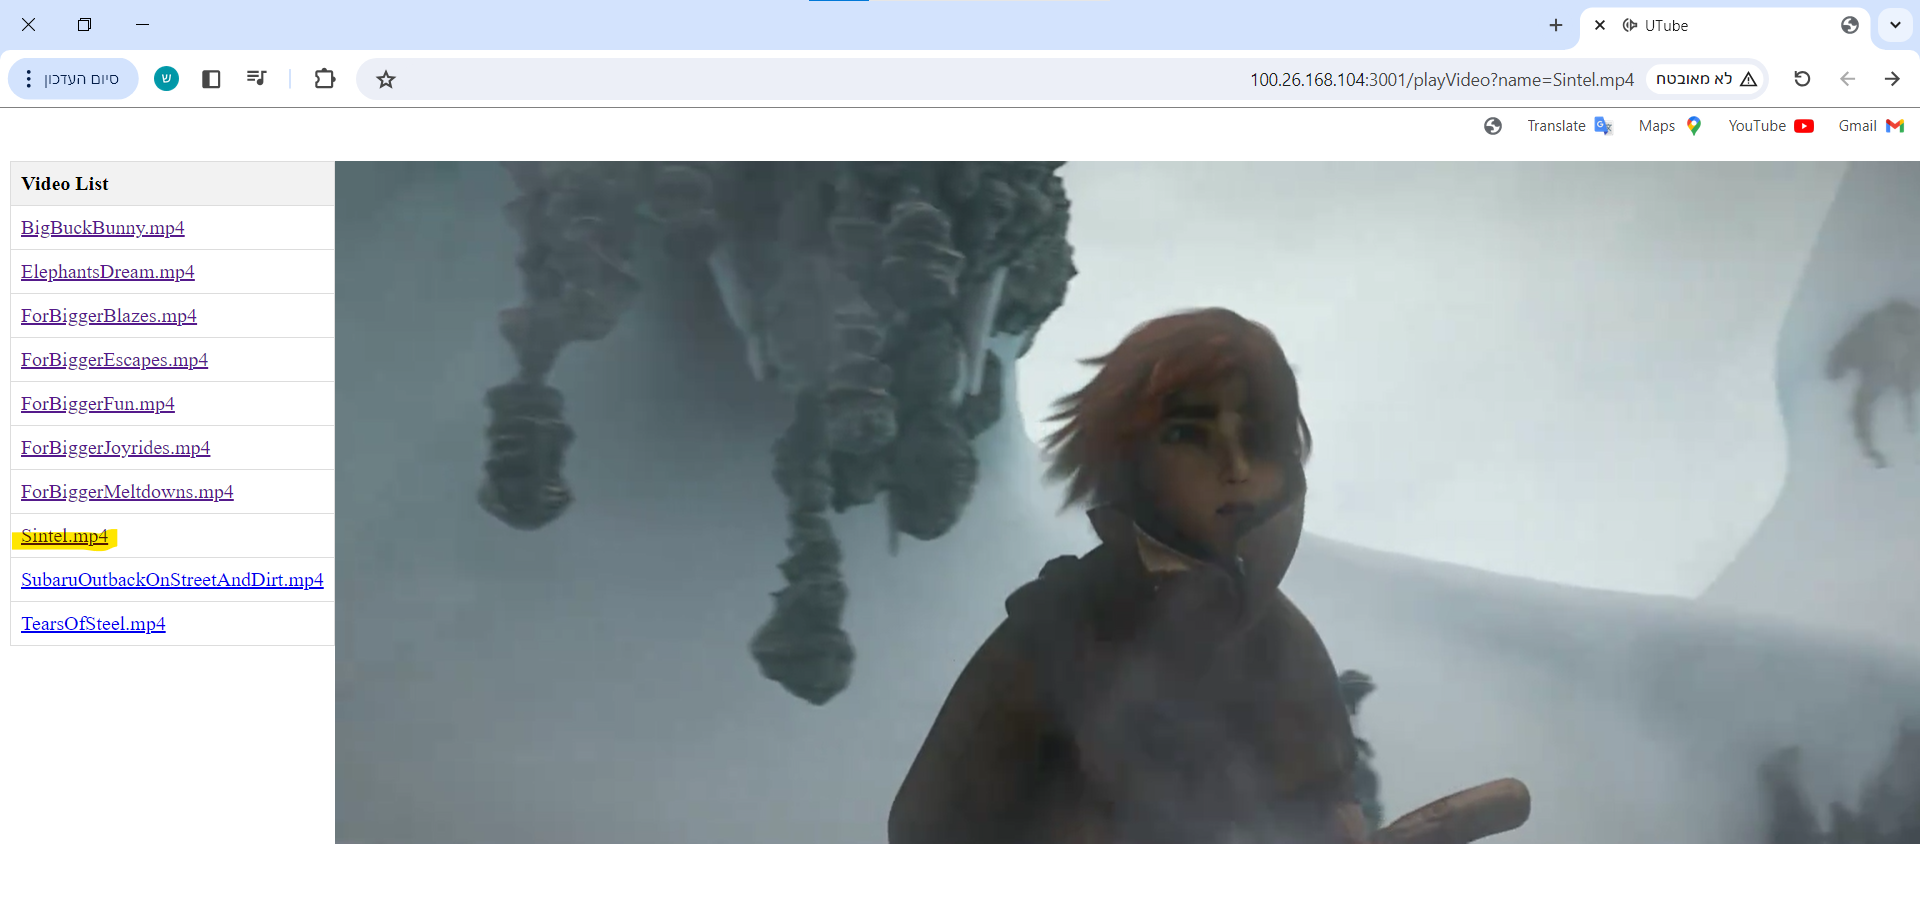
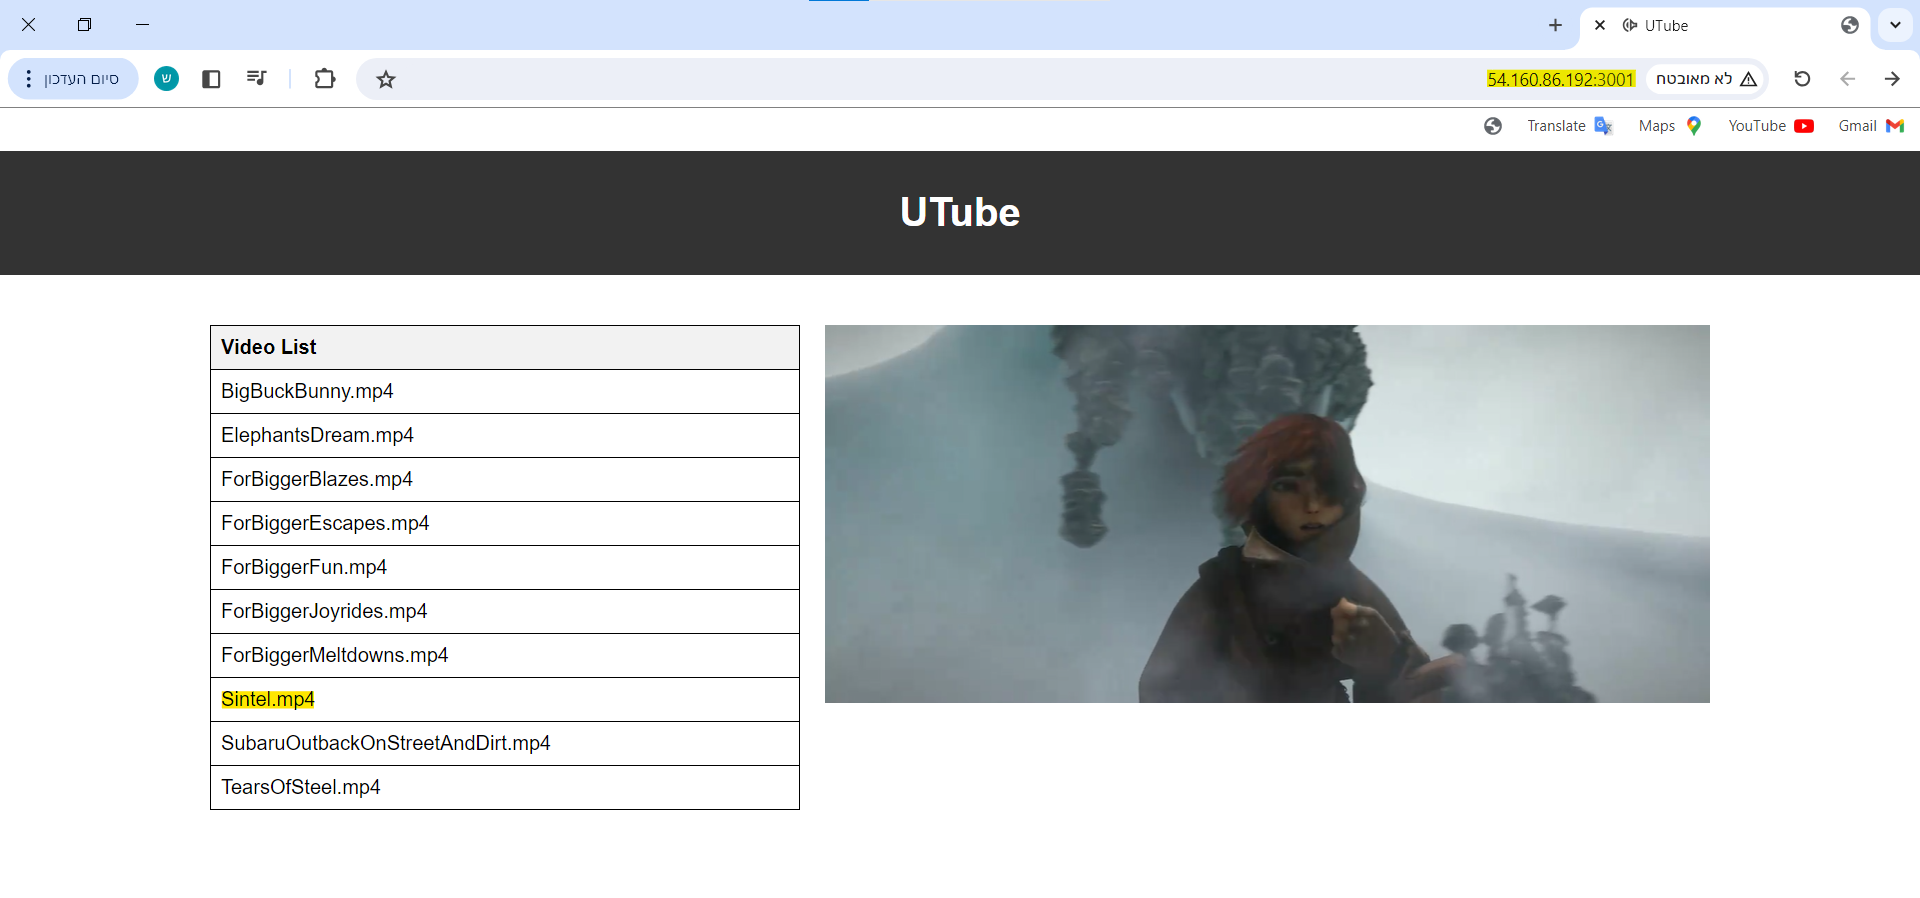
fix task 3

diff --git a/Assignment1/Task3/myWebServer/index.js b/Assignment1/Task3/myWebServer/index.js
@@ -1,159 +1,10 @@
 const express = require('express');
+const path = require('path');
 const app = express();
 const PORT = 3001;
 
-app.get('/', async (req, res) => {
-    try {
-        const response = await fetch('http://localhost:3000/videoList');
-        const videoList = await response.json();
-        
-        // Prepare HTML with the video list
-        let html = `
-        <!DOCTYPE html>
-        <html lang="en">
-        <head>
-            <meta charset="UTF-8">
-            <meta name="viewport" content="width=device-width, initial-scale=1.0">
-            <title>UTube</title>
-            <style>
-                .container {
-                    display: flex;
-                }
-                table {
-                    border-collapse: collapse;
-                    width: 25%;
-                }
-                th, td {
-                    border: 1px solid #ddd;
-                    padding: 8px;
-                    text-align: left;
-                }
-                th {
-                    background-color: #f2f2f2;
-                }
-                .video-container {
-                    flex: 1;
-                }
-                .video-player {
-                    flex: 1;
-                }
-            </style>
-        </head>
-        <body>
-            <div class="container">
-                <div class="video-container">
-                    <table>
-                        <thead>
-                            <tr>
-                                <th>Video List</th>
-                            </tr>
-                        </thead>
-                        <tbody>`;
-
-        videoList.forEach(video => {
-            html += `<tr><td><a href="/playVideo?name=${encodeURIComponent(video)}">${video}</a></td></tr>`;
-        });
-
-        html += `       </tbody>
-                    </table>
-                </div>
-                <div class="video-player" id="videoPlayer">`;
-        // Prepare HTML with the video player
-        html += `
-        <video controls>
-            <source src="" type="video/mp4">
-            Your browser does not support the video tag.
-        </video>`;
-        
-        html +=`                </div>
-            </div>
-        </body>
-        </html>`;
-
-        res.send(html);
-    } catch (error) {
-        console.error('Error fetching video list:', error);
-        res.status(500).send('Internal Server Error');
-    }
-});
-
-// Route for handling video playback
-app.get('/playVideo', async (req, res) => {
-    try {
-        const response = await fetch('http://localhost:3000/videoList');
-        const videoList = await response.json();
-        const videoName = req.query.name;
-        const response2 = await fetch(`http://localhost:3000/videoLink?video_name=${videoName}`);
-        const videoLink = await response2.text();
-        
-        // Prepare HTML with the video list
-        let html = `
-        <!DOCTYPE html>
-        <html lang="en">
-        <head>
-            <meta charset="UTF-8">
-            <meta name="viewport" content="width=device-width, initial-scale=1.0">
-            <title>UTube</title>
-            <style>
-                .container {
-                    display: flex;
-                }
-                table {
-                    border-collapse: collapse;
-                    width: 25%;
-                }
-                th, td {
-                    border: 1px solid #ddd;
-                    padding: 8px;
-                    text-align: left;
-                }
-                th {
-                    background-color: #f2f2f2;
-                }
-                .video-container {
-                    flex: 1;
-                }
-                .video-player {
-                    flex: 1;
-                }
-            </style>
-        </head>
-        <body>
-            <div class="container">
-                <div class="video-container">
-                    <table>
-                        <thead>
-                            <tr>
-                                <th>Video List</th>
-                            </tr>
-                        </thead>
-                        <tbody>`;
-
-        videoList.forEach(video => {
-            html += `<tr><td><a href="/playVideo?name=${encodeURIComponent(video)}">${video}</a></td></tr>`;
-        });
-
-        html += `       </tbody>
-                    </table>
-                </div>
-                <div class="video-player" id="videoPlayer">`;
-        // Prepare HTML with the video player
-        html += `
-        <video controls>
-            <source src="${videoLink}" type="video/mp4">
-            Your browser does not support the video tag.
-        </video>`;
-        
-        html +=`                </div>
-            </div>
-        </body>
-        </html>`;
-
-        res.send(html);
-    } catch (error) {
-        console.error('Error fetching video list:', error);
-        res.status(500).send('Internal Server Error');
-    }
+app.get('/', (req, res) => {
+        res.sendFile(path.join(__dirname, "/index.html"));
 });
 
 

diff --git a/Assignment1/Task3/myWebServer/index.html b/Assignment1/Task3/myWebServer/index.html
@@ -1,0 +1,119 @@
+<!DOCTYPE html>
+<html lang="en">
+<head>
+    <meta charset="UTF-8">
+    <meta name="viewport" content="width=device-width, initial-scale=1.0">
+    <title>UTube</title>
+    <style>
+        /* Global styles */
+        body {
+            font-family: Arial, sans-serif;
+            margin: 0;
+            padding: 0;
+        }
+        .container {
+            display: flex;
+            justify-content: space-between;
+            align-items: flex-start;
+            max-width: 1200px;
+            margin: 20px auto;
+            padding: 20px;
+        }
+        #videoTable {
+            width: 40%;
+            border-collapse: collapse;
+        }
+        #videoTable th, #videoTable td {
+            border: 1px solid black;
+            padding: 8px;
+            text-align: left;
+            cursor: pointer;
+        }
+        #videoTable th {
+            background-color: #f2f2f2;
+        }
+        #videoPlayerContainer {
+            width: 60%;
+            margin-left: 20px;
+        }
+        #videoPlayer {
+            width: 100%;
+        }
+        header {
+            background-color: #333;
+            color: #fff;
+            text-align: center;
+            padding: 10px 0;
+            margin-bottom: 20px;
+        }
+    </style>
+</head>
+<body>
+    <header>
+        <h1>UTube</h1>
+    </header>
+
+    <div class="container">
+        <table id="videoTable">
+            <thead>
+                <tr>
+                    <th>Video List</th>
+                </tr>
+            </thead>
+            <tbody id="videoList">
+                <!-- Dynamic content will be inserted here -->
+            </tbody>
+        </table>
+
+        <div id="videoPlayerContainer">
+            <video controls id="videoPlayer">
+                <!-- Video player will be dynamically loaded here -->
+            </video>
+        </div>
+    </div>
+
+    <script>
+        // Function to fetch video link and load video
+        async function loadVideo(videoName) {
+            try {
+                const response = await fetch(`http://54.160.86.192:3000/videoLink?video_name=${videoName}`);
+                if (!response.ok) {
+                    throw new Error('Failed to fetch video link');
+                }
+                const data = await response.text(); // Expecting plain text URL
+                const videoPlayer = document.getElementById('videoPlayer');
+                videoPlayer.innerHTML = `<source src="${data}" type="video/mp4">`;
+                videoPlayer.load();
+                videoPlayer.play();
+            } catch (error) {
+                console.error('Error fetching video link:', error);
+                alert('Error fetching video link. See console for details.');
+            }
+        }
+
+        // Function to populate the table with video names
+        function populateVideoList(videoNames) {
+            const videoList = document.getElementById('videoList');
+            videoNames.forEach(video => {
+                const row = document.createElement('tr');
+                const cell = document.createElement('td');
+                cell.textContent = video;
+                cell.addEventListener('click', () => loadVideo(video));
+                row.appendChild(cell);
+                videoList.appendChild(row);
+            });
+        }
+
+        // Fetch data from the API for video names
+        fetch('http://54.160.86.192:3000/videoList')
+            .then(response => response.json())
+            .then(data => {
+                populateVideoList(data);
+            })
+            .catch(error => {
+                console.error('Error fetching video list:', error);
+                alert('Error fetching video list. See console for details.');
+            });
+    </script>
+</body>
+</html>

diff --git a/Assignment1/Task3/myAPI/index.js b/Assignment1/Task3/myAPI/index.js
@@ -67,6 +67,14 @@ async function get_video_URL(video_name)
 const express = require('express');
 const app = express();
 
+// Enable CORS for all requests
+app.use((req, res, next) => {
+    res.setHeader('Access-Control-Allow-Origin', '*');
+    res.setHeader('Access-Control-Allow-Methods', 'GET, POST, PUT, DELETE');
+    res.setHeader('Access-Control-Allow-Headers', 'Content-Type, Authorization');
+    next();
+});
+
 app.get('/videoList', async (req, res) => {
     let result = await get_bucket_objects_list();
     console.log("GET request for /videoList");

diff --git a/Assignment1/Task3/README.md b/Assignment1/Task3/README.md
@@ -24,14 +24,9 @@ npm i @aws-sdk/s3-request-presigner
 node index.js
 ```
 
-Secondly, we will have to edit the web server that knows how to handle loading a video.<br />
-The process will go like this:
-* When you enter a page on the website, a list of videos is loaded
-* When clicking on the name of a video, a GET HTTP request will be sent to the web server.
-* The web server (on port 3001, of course) receives the request and turns to the API on port 3000, which returns a **pre-sign link**
-* The server loads a new page with the list of videos and next to them loads the video from the **pre-sign link**.
+Secondly, we will have to edit the html page that knows how to handle loading a video.
 
-The following changes can be found in the [./myWebServer/index.js](./myWebServer/index.js) file. Since no new dependency was added, it is now possible (through the appropriate path..) to run the server again:
+The following changes can be found in the [./myWebServer/index.html](./myWebServer/index.html) file. Since no new dependency was added, it is now possible (through the appropriate path..) to run the server again:
 
 ```
 node index.js
